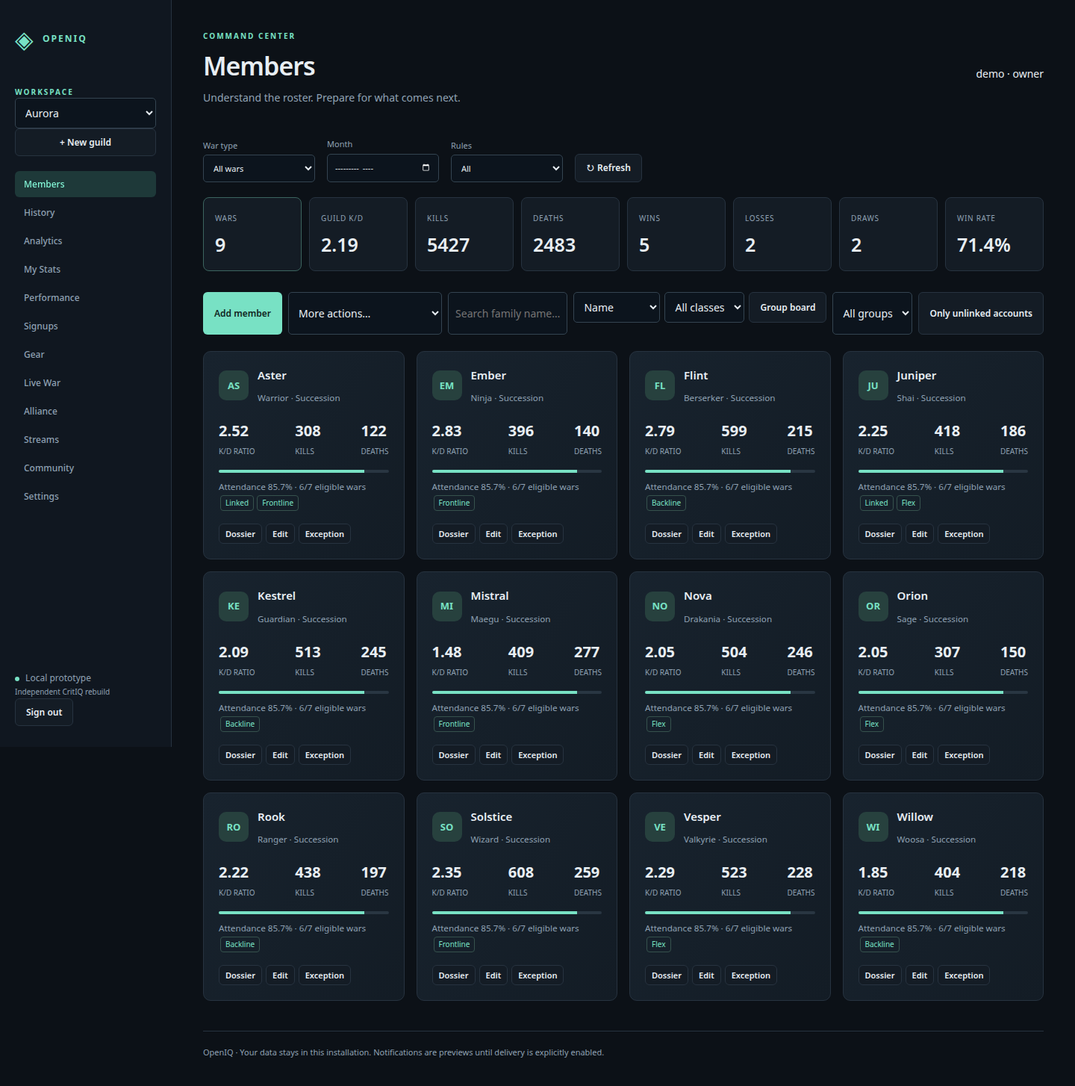
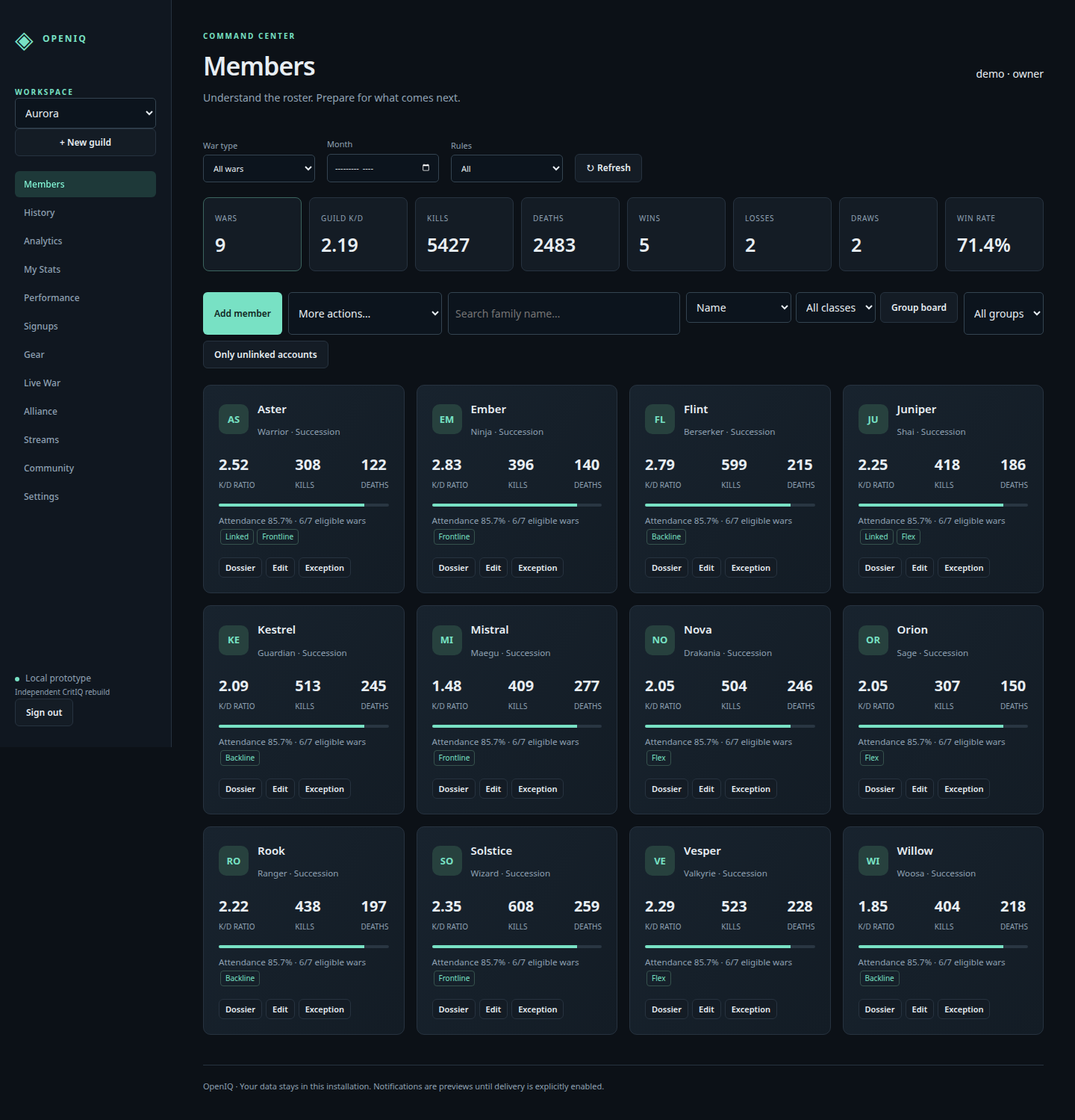
Add interactive analytics and inline war-detail editing

diff --git a/static/app.js b/static/app.js
@@ -4,20 +4,20 @@ let state,tab='Members',memberView='grid',search='',sort='name',classFilter='',g
 const tabs=['Members','History','Analytics','My Stats','Performance','Signups','Gear','Live War','Alliance','Streams','Community','Settings'];
 const subtitles={'History':'Every battle, recorded and understood.','Analytics':'Find the patterns behind your performance.','My Stats':'Your personal war dossier.','Performance':'Private coaching and attendance follow-up.','Signups':'Build balanced teams. Make every slot count.','Gear':'Track progression across your roster.','Live War':'Follow the fight. Review every moment.','Alliance':'Independent guilds. A shared view.','Streams':'Your guild and the wider BDO community.','Community':'Applications, support and guild conversations.','Settings':'Control access, schedules and integrations.'};
 const records=k=>state.records[k]||[], name=id=>records('member').find(m=>m.id===id)?.name||id, ratio=x=>x===null?'∞':Number(x||0).toFixed(2), csrf=()=>document.cookie.split('; ').find(s=>s.startsWith('csrftoken='))?.split('=')[1];
-const button=(label,fn,cls='ghost')=>{const b=document.createElement('button');b.className=cls;b.textContent=label;b.onclick=fn;return b;};
+const button=(label,fn,cls='ghost')=>{const b=document.createElement('button');b.type='button';b.className=cls;b.textContent=label;b.onclick=fn;return b;};
 function toast(text){$('#toast').textContent=text;$('#toast').hidden=false;clearTimeout(timer);timer=setTimeout(()=>$('#toast').hidden=true,6000);}
 async function call(module,action,payload){const response=await fetch(`/api/${$('#guild').value}/${module}/${action}/`,{method:'POST',headers:{'Content-Type':'application/json','X-CSRFToken':csrf()},body:JSON.stringify(payload)});const data=await response.json();if(!response.ok)throw Error(data.error||'Request failed');if(data.result?.deleted_guild){location.reload();return data.result;}await load();return data.result;}
 async function load(){if(!$('#guild').value){$('#panel').innerHTML='<div class="empty">No guild access. Run the demo setup command or ask an owner to add your account.</div>';return;}try{const query=new URLSearchParams({type:$('#war-type').value,month:$('#month').value,capped:$('#capped').value});const r=await fetch(`/api/${$('#guild').value}/state/?${query}`);if(!r.ok)throw Error('Unable to load guild');state=await r.json();$('#error').hidden=true;render();}catch(e){$('#error').textContent=e.message;$('#error').hidden=false;}}
 function render(){const visible=tabs.filter(t=>!(state.role==='member'&&['Performance','Settings'].includes(t)));if(!visible.includes(tab))tab='Members';$('#nav').replaceChildren(...visible.map(t=>button(t,()=>{tab=t;render();},t===tab?'active':'')));$('#title').textContent=tab;$('#subtitle').textContent=subtitles[tab]||'Understand the roster. Prepare for what comes next.';$('#identity').textContent=state.user.name+' · '+state.role;const t=state.analytics.totals;$('#stats').innerHTML=[['Wars',t.wars],['Guild K/D',ratio(t.kdr)],['Kills',t.kills],['Deaths',t.deaths],['Wins',t.wins],['Losses',t.losses],['Draws',t.draws],['Win rate',t.win_rate+'%']].map(([k,v])=>`<article><small>${k}</small><strong>${esc(v)}</strong></article>`).join('');$('#toolbar').replaceChildren();const modules={Members:['roster'],History:['wars'],Analytics:[], 'My Stats':['roster'],Performance:['coaching'],Signups:['events'],Gear:['gear'],'Live War':['live','intelligence'],Alliance:['alliances'],Streams:['integrations'],Community:['community','operations','ai'],Settings:['admin','integrations','operations']};let actions=state.actions.filter(a=>(modules[tab]||[]).includes(a.module));if(tab==='My Stats')actions=actions.filter(a=>a.action==='class');if(tab==='Streams')actions=actions.filter(a=>a.action.startsWith('twitch')||a.action.startsWith('streams'));if(actions.length){$('#toolbar').append(button(actions[0].label,()=>openAction(actions[0]),''));const select=document.createElement('select');select.className='actions-menu';select.innerHTML='<option value="">More actions…</option>'+actions.slice(1).map((a,i)=>`<option value="${i+1}">${esc(a.label)}</option>`).join('');select.onchange=()=>{if(select.value)openAction(actions[Number(select.value)]);select.value='';};$('#toolbar').append(select);}({Members:members,History:history,Analytics:analytics,'My Stats':myStats,Performance:performance,Signups:events,Gear:gear,'Live War':live,Alliance:alliance,Streams:streams,Community:community,Settings:settings}[tab])();enhanceTab();}
 function table(headers,rows){return `<div class="table-wrap"><table><thead><tr>${headers.map(h=>`<th>${esc(h)}</th>`).join('')}</tr></thead><tbody>${rows.join('')}</tbody></table></div>`;}
 const empty=message=>`<div class="empty">${esc(message)}</div>`;
-function members(){const stats=Object.fromEntries(state.analytics.members.map(m=>[m.id,m]));let list=records('member').filter(m=>m.active&&[m.name,m.character,...(m.aliases||[])].join(' ').toLowerCase().includes(search.toLowerCase())&&(!classFilter||m.class===classFilter)&&(!groupFilter||m.group===groupFilter)&&(!unlinkedOnly||!m.user_id));list.sort((a,b)=>sort==='name'?a.name.localeCompare(b.name):(stats[b.id]?.[sort]||0)-(stats[a.id]?.[sort]||0));const input=document.createElement('input');input.className='search';input.placeholder='Search family name…';input.value=search;input.oninput=()=>{search=input.value;members();};$('#toolbar .search')?.remove();$('#toolbar').append(input);if(!$('#member-tools')){const tools=document.createElement('div');tools.id='member-tools';tools.className='pill-row';tools.innerHTML=`<select id="sort"><option value="name">Name</option><option value="kills">Kills</option><option value="deaths">Deaths</option><option value="kdr">K/D</option><option value="attendance">Attendance</option></select><select id="class-filter"><option value="">All classes</option>${[...new Set(records('member').map(m=>m.class))].map(c=>`<option>${esc(c)}</option>`).join('')}</select>`;tools.append(button(memberView==='grid'?'Group board':'Card view',()=>{memberView=memberView==='grid'?'board':'grid';render();}));$('#toolbar').append(tools);$('#sort').value=sort;$('#sort').onchange=()=>{sort=$('#sort').value;members();};$('#class-filter').value=classFilter;$('#class-filter').onchange=()=>{classFilter=$('#class-filter').value;members();};}
+function members(){const stats=Object.fromEntries(state.analytics.members.map(m=>[m.id,m]));let list=records('member').filter(m=>m.active&&[m.name,m.character,...(m.aliases||[])].join(' ').toLowerCase().includes(search.toLowerCase())&&(!classFilter||m.class===classFilter)&&(!groupFilter||m.group===groupFilter)&&(!unlinkedOnly||!m.user_id));const vacation=m=>(m.vacations||[]).some(v=>v.start<=new Date().toISOString().slice(0,10)&&v.end>=new Date().toISOString().slice(0,10));list.sort((a,b)=>sort==='name'?a.name.localeCompare(b.name):sort==='last_war'?(stats[b.id]?.calendar.filter(w=>w.present).at(-1)?.date||'').localeCompare(stats[a.id]?.calendar.filter(w=>w.present).at(-1)?.date||''):sort==='vacation'?Number(vacation(b))-Number(vacation(a)):(stats[b.id]?.[sort]||0)-(stats[a.id]?.[sort]||0));const input=document.createElement('input');input.className='search';input.placeholder='Search family name…';input.value=search;input.oninput=()=>{search=input.value;members();};$('#toolbar .search')?.remove();$('#toolbar').append(input);if(!$('#member-tools')){const tools=document.createElement('div');tools.id='member-tools';tools.className='pill-row';tools.innerHTML=`<select id="sort"><option value="name">Name</option><option value="kills">Kills</option><option value="deaths">Deaths</option><option value="kdr">K/D</option><option value="attendance">Attendance</option><option value="last_war">Last war date</option><option value="vacation">Vacation status</option></select><select id="class-filter"><option value="">All classes</option>${[...new Set(records('member').map(m=>m.class))].map(c=>`<option>${esc(c)}</option>`).join('')}</select>`;tools.append(button(memberView==='grid'?'Group board':'Card view',()=>{memberView=memberView==='grid'?'board':'grid';render();}));$('#toolbar').append(tools);$('#sort').value=sort;$('#sort').onchange=()=>{sort=$('#sort').value;members();};$('#class-filter').value=classFilter;$('#class-filter').onchange=()=>{classFilter=$('#class-filter').value;members();};}
 if(memberView==='board'){const groups=[...new Set(['Unassigned',...records('group').map(g=>g.name),...list.map(m=>m.group)])];$('#panel').innerHTML=`<div class="board">${groups.map(g=>`<div class="column" data-group="${esc(g)}"><h3>${esc(g)}</h3>${list.filter(m=>m.group===g).map(m=>`<div class="tile" draggable="true" data-member="${m.id}">${esc(m.name)} <small>${esc(m.class)}</small></div>`).join('')}</div>`).join('')}</div>`;document.querySelectorAll('[draggable]').forEach(e=>e.ondragstart=ev=>ev.dataTransfer.setData('text/plain',e.dataset.member));document.querySelectorAll('[data-group]').forEach(e=>{e.ondragover=ev=>ev.preventDefault();e.ondrop=async ev=>{ev.preventDefault();try{await call('roster','save',{id:ev.dataTransfer.getData('text/plain'),group:e.dataset.group});}catch(e){toast(e.message);}};});return;}
 $('#panel').innerHTML=list.length?`<div class="grid">${list.map(m=>{const s=stats[m.id]||{};return `<article class="card"><div class="card-head"><div class="avatar">${esc(m.name.slice(0,2).toUpperCase())}</div><div><h3>${esc(m.name)}</h3><small>${esc(m.class)} · ${esc(m.spec)}</small></div></div><div class="numbers"><div><strong>${ratio(s.kdr)}</strong><small>K/D RATIO</small></div><div><strong>${s.kills||0}</strong><small>KILLS</small></div><div><strong>${s.deaths||0}</strong><small>DEATHS</small></div></div><div class="progress"><span style="width:${s.attendance||0}%"></span></div><small>Attendance ${s.attendance===null?'—':s.attendance+'%'} · ${s.present||0}/${s.eligible||0} eligible wars</small><div>${m.exception?'<span class="badge warn">Exception</span>':''}${m.user_id?'<span class="badge">Linked</span>':''}<span class="badge">${esc(m.group)}</span>${m.pity_points?`<span class="badge">${Math.floor(m.pity_points/3)} pity tokens · ${m.pity_points%3}/3 points</span>`:''}</div><div class="card-actions" data-member-actions="${m.id}"></div></article>`;}).join('')}</div>`:empty('No members match these filters.');document.querySelectorAll('[data-member-actions]').forEach(el=>{const id=el.dataset.memberActions;el.append(button('Dossier',()=>showDossier(id)));if(state.role!=='member'){el.append(button('Edit',()=>openAction(state.actions.find(a=>a.module==='roster'&&a.action==='save'),records('member').find(m=>m.id===id))));el.append(button('Exception',async()=>{try{const m=records('member').find(x=>x.id===id);await call('roster','save',{id,exception:!m.exception});}catch(e){toast(e.message);}}));}});if(search){input.focus({preventScroll:true});input.setSelectionRange(search.length,search.length);}}
 function showDossier(id){const m=records('member').find(x=>x.id===id),s=state.analytics.members.find(x=>x.id===id);showContent(m.name,`<p>${esc(m.class)} · ${esc(m.spec)}</p>${chart(s.timeline)}<h3>Attendance</h3>${heatmap(s.calendar)}<h3>Private notes</h3>${(m.notes||[]).map(n=>`<p>${esc(n.text)} <small>${esc(n.by)}</small></p>`).join('')||'<p>No notes.</p>'}`);}
 function heatmap(items){return `<div class="heatmap">${items.map(d=>`<i class="${d.present?'present':''}" title="${esc(d.date)}: ${d.present?'Present':'Absent'}"></i>`).join('')}</div>`;}
 function chart(items){if(!items.length)return empty('No recorded wars yet.');const max=Math.max(1,...items.map(x=>x.kills));const points=items.map((x,i)=>`${30+i*520/Math.max(items.length-1,1)},${150-x.kills/max*120}`).join(' ');return `<svg class="chart" viewBox="0 0 580 180" role="img" aria-label="Kills across recorded wars"><line x1="30" y1="150" x2="560" y2="150" stroke="#344451"/><polyline points="${points}" fill="none" stroke="#78e1c4" stroke-width="3"/>${items.map((x,i)=>`<circle cx="${30+i*520/Math.max(items.length-1,1)}" cy="${150-x.kills/max*120}" r="4" fill="#78e1c4"><title>${esc(x.date||x.at)}: ${x.kills} kills, ${x.deaths} deaths</title></circle>`).join('')}<text x="30" y="174">${esc(items[0].date||items[0].at)}</text></svg>`;}
-function history(){const wars=records('war').slice().sort((a,b)=>b.date.localeCompare(a.date));$('#panel').innerHTML=table(['Date','Type','Result','Kills','Deaths','Players','Actions'],wars.map(w=>`<tr><td>${esc(w.date)}</td><td>${esc(w.type)} ${w.capped?'· capped':''}</td><td><span class="badge">${w.result}</span></td><td>${w.participants.reduce((s,p)=>s+p.kills,0)}</td><td>${w.participants.reduce((s,p)=>s+p.deaths,0)}</td><td>${w.participants.length}</td><td data-war="${w.id}"></td></tr>`));document.querySelectorAll('[data-war]').forEach(el=>{const w=wars.find(x=>x.id===el.dataset.war);el.append(button('Details',()=>showContent(w.date+' · '+w.type,table(['Member','Class','Kills','Deaths'],w.participants.map(p=>`<tr><td>${esc(name(p.member))}</td><td>${esc(p.class)}</td><td>${p.kills}</td><td>${p.deaths}</td></tr>`)))));if(state.role!=='member'){el.append(button('Edit',()=>openAction(state.actions.find(a=>a.module==='wars'&&a.action==='save'),w)));el.append(button(w.excluded?'Include K/D':'Exclude K/D',()=>safeCall('wars','save',{id:w.id,excluded:!w.excluded})));el.append(button(w.alliance_included?'Unshare':'Share with alliance',()=>safeCall('wars','save',{id:w.id,alliance_included:!w.alliance_included})));}});if(state.role!=='member'){$('#toolbar').append(button('Read screenshots',()=>ocrDialog('scores')));for(const draft of records('import').filter(i=>i.status==='review'))$('#toolbar').append(button('Finalize score review',()=>reviewDraft(draft)));}}
+function history(){const wars=records('war').slice().sort((a,b)=>b.date.localeCompare(a.date));$('#panel').innerHTML=table(['Date','Type','Result','Kills','Deaths','Players','Actions'],wars.map(w=>`<tr><td>${esc(w.date)}</td><td>${esc(w.type)} ${w.capped?'· capped':''}</td><td><span class="badge">${w.result}</span></td><td>${w.participants.reduce((s,p)=>s+p.kills,0)}</td><td>${w.participants.reduce((s,p)=>s+p.deaths,0)}</td><td>${w.participants.length}</td><td data-war="${w.id}"></td></tr>`));document.querySelectorAll('[data-war]').forEach(el=>{const w=wars.find(x=>x.id===el.dataset.war);el.append(button('Details',()=>showWarDetails(w)));if(state.role!=='member'){el.append(button('Edit',()=>openAction(state.actions.find(a=>a.module==='wars'&&a.action==='save'),w)));el.append(button(w.excluded?'Include K/D':'Exclude K/D',()=>safeCall('wars','save',{id:w.id,excluded:!w.excluded})));el.append(button(w.alliance_included?'Unshare':'Share with alliance',()=>safeCall('wars','save',{id:w.id,alliance_included:!w.alliance_included})));}});if(state.role!=='member'){$('#toolbar').append(button('Read screenshots',()=>ocrDialog('scores')));for(const draft of records('import').filter(i=>i.status==='review'))$('#toolbar').append(button('Finalize score review',()=>reviewDraft(draft)));}}
 function analytics(){const a=state.analytics;a.awards=state.intelligence.awards;$('#panel').innerHTML=`<div class="split"><article class="card"><h3>Kills over time</h3>${chart(a.timeline)}</article><article class="card"><h3>Class composition</h3>${Object.entries(a.composition).map(([c,n])=>`<div class="bar"><label>${esc(c)}</label><span style="width:${n/Math.max(...Object.values(a.composition),1)*60}%"></span><small>${n}</small></div>`).join('')}</article></div><div class="grid section">${Object.entries(a.awards).map(([award,n])=>`<article class="card"><small>${esc(award)}</small><h2>${esc(n)}</h2></article>`).join('')}</div><h2>Player comparison</h2>${table(['Member','Kills','Deaths','K/D','Attendance','Recent change'],a.members.map(m=>`<tr><td>${esc(m.name)}</td><td>${m.kills}</td><td>${m.deaths}</td><td>${ratio(m.kdr)}</td><td>${m.attendance??'—'}%</td><td>${m.improvement.toFixed(2)}</td></tr>`))}<h2>Attendance calendar</h2>${a.members.map(m=>`<div class="bar"><label>${esc(m.name)}</label>${heatmap(m.calendar)}</div>`).join('')}<h2>Roster retention</h2>${table(['Recorded','Active members'],records('retention').map(r=>`<tr><td>${esc(r.at)}</td><td>${r.members}</td></tr>`))}`;}
 function myStats(){const m=records('member').find(m=>String(m.user_id)===String(state.user.id));if(!m){$('#panel').innerHTML=empty('Ask an officer to link your account to your BDO family name.');return;}const s=state.analytics.members.find(s=>s.id===m.id);$('#panel').innerHTML=`<article class="card"><h2>${esc(m.name)}</h2><p>${esc(m.class)} · ${esc(m.spec)} · ${ratio(s.kdr)} K/D</p>${chart(s.timeline)}${heatmap(s.calendar)}<h3>Recent wars</h3>${table(['Date','Kills','Deaths','K/D'],s.timeline.slice(-10).reverse().map(w=>`<tr><td>${w.date}</td><td>${w.kills}</td><td>${w.deaths}</td><td>${ratio(w.kdr)}</td></tr>`))}</article>`;}
 function performance(){$('#panel').innerHTML=`<div class="grid">${state.flags.map(f=>`<article class="card"><h3>${esc(f.name)}</h3><p>${f.reasons.map(esc).join(' · ')}</p><strong>${ratio(f.kdr)} K/D</strong> · ${f.attendance}% attendance</article>`).join('')||empty('No members currently exceed the configured thresholds.')}</div><h2>Mentoring assignments</h2>${table(['Member','Lead','Status','Outcome'],records('assignment').map(a=>`<tr><td>${esc(name(a.member))}</td><td>${esc(records('lead').find(l=>l.id===a.lead)?.name)}</td><td>${esc(a.status)}</td><td>${esc(a.outcome||a.notes)}</td></tr>`))}`;}
@@ -52,6 +52,7 @@ function enhanceTab(){
  if(tab==='Alliance'){for(const a of records('alliance').filter(a=>a.status==='active')){const section=document.createElement('section');section.innerHTML='<h2>Shared events</h2>'+a.events.map(e=>`<p><a href="/events/shared/${e.share_token}/">${esc(e.guild)} · ${esc(e.title)}</a></p>`).join('')+'<h2>Allied roster</h2>'+table(['Guild','Member','Class'],a.roster.map(m=>`<tr><td>${esc(m.guild)}</td><td>${esc(m.name)}</td><td>${esc(m.class)}</td></tr>`))+'<h2>Unified shared history</h2>'+table(['Guild','Date','Type','Result'],a.history.map(w=>`<tr><td>${esc(w.guild)}</td><td>${w.date}</td><td>${w.type}</td><td>${w.result}</td></tr>`));$('#panel').append(section);}}
  if(tab==='Gear'){const section=document.createElement('section');section.innerHTML='<h2>Guild gear rankings</h2>'+table(['Guild','Average score','Members sampled','Source'],state.rankings.map(g=>`<tr><td>${esc(g.name)}</td><td>${g.average_score}</td><td>${g.members}</td><td>${esc(g.source)}</td></tr>`));$('#panel').append(section);}
  if(tab==='Analytics'){
+  renderInsights();
   const section=document.createElement('section');section.className='section';section.innerHTML='<h2>Compare players</h2><p>Select two to four members. Each axis is normalized to the selected group.</p><select id="compare-players" multiple aria-label="Players to compare">'+state.analytics.members.map((m,i)=>`<option value="${m.id}" ${i<2?'selected':''}>${esc(m.name)}</option>`).join('')+'</select><div id="radar"></div><h2>Class performance</h2>'+table(['Class','Kills','Deaths','K/D'],Object.entries(state.analytics.classes).map(([c,s])=>`<tr><td>${esc(c)}</td><td>${s.kills}</td><td>${s.deaths}</td><td>${ratio(s.deaths?s.kills/s.deaths:null)}</td></tr>`));$('#panel').append(section);
   const draw=()=>{const chosen=[...$('#compare-players').selectedOptions].slice(0,4).map(o=>state.analytics.members.find(m=>m.id===o.value));const metrics=['kills','deaths','attendance','improvement'];const colors=['#78e1c4','#e2bd78','#9ba9ef','#f2878b'];const max=metrics.map(k=>Math.max(1,...chosen.map(m=>Math.abs(m[k]||0))));let html='<svg viewBox="0 0 480 270" class="chart" role="img" aria-label="Player comparison radar">';metrics.forEach((k,i)=>{const angle=i*Math.PI/2-Math.PI/2;html+=`<line x1="240" y1="130" x2="${240+100*Math.cos(angle)}" y2="${130+100*Math.sin(angle)}" stroke="#344451"/><text text-anchor="middle" x="${240+120*Math.cos(angle)}" y="${135+120*Math.sin(angle)}">${k}</text>`;});chosen.forEach((m,j)=>{const points=metrics.map((k,i)=>{const angle=i*Math.PI/2-Math.PI/2;const r=Math.abs(m[k]||0)/max[i]*100;return `${240+r*Math.cos(angle)},${130+r*Math.sin(angle)}`;}).join(' ');html+=`<polygon points="${points}" fill="${colors[j]}22" stroke="${colors[j]}" stroke-width="2"><title>${esc(m.name)}</title></polygon>`;});html+='</svg><div class="pill-row">'+chosen.map((m,i)=>`<span class="badge" style="color:${colors[i]}">${esc(m.name)}</span>`).join('')+'</div>';$('#radar').innerHTML=html;};$('#compare-players').onchange=draw;draw();
  }

diff --git a/static/insights.js b/static/insights.js
@@ -1,0 +1,46 @@
+/* Independent visualizations and the editable war-detail workspace. */
+function kdrTimeline(items, label='K/D across recorded wars') {
+ if(!items.length)return empty('No recorded wars yet.');
+ const finite=items.map(item=>item.deaths?item.kills/item.deaths:0),maximum=Math.max(1,...finite);
+ const value=item=>item.deaths?item.kills/item.deaths:item.kills?maximum:0;
+ const point=(item,index)=>[30+index*520/Math.max(items.length-1,1),150-value(item)/maximum*120];
+ return `<svg class="chart" viewBox="0 0 580 180" role="img" aria-label="${esc(label)}"><polyline points="${items.map((item,index)=>point(item,index).join(',')).join(' ')}" fill="none" stroke="#78e1c4" stroke-width="3"/>${items.map((item,index)=>{const [x,y]=point(item,index);return `<circle cx="${x}" cy="${y}" r="5" fill="#e2bd78"><title>${esc(item.date||item.at)}: ${item.deaths?ratio(item.kills/item.deaths):item.kills?'∞ (zero deaths)':'0.00'} K/D</title></circle>`;}).join('')}<text x="30" y="174">Zero-death wins appear at the chart ceiling; hover for exact values.</text></svg>`;
+}
+function classBubbles() {
+ const classes=Object.entries(state.analytics.composition),nodes=classes.map(([name,count],index)=>({name,count,x:90+(index%5)*100,y:70+Math.floor(index/5)*100,r:22+Math.sqrt(count)*7}));
+ const height=Math.max(220,Math.ceil(nodes.length/5)*110);
+ return {nodes,height,html:`<svg id="class-bubbles" class="chart" viewBox="0 0 580 ${height}" role="img" aria-label="Interactive class composition bubbles">${nodes.map((node,index)=>{const specs={};records('member').filter(m=>m.active&&m.class===node.name).forEach(m=>specs[m.spec]=(specs[m.spec]||0)+1);return `<g data-bubble="${index}" transform="translate(${node.x} ${node.y})"><circle r="${node.r}" fill="#244b48" stroke="#78e1c4"/><text text-anchor="middle" dy="-3">${esc(node.name)}</text><text text-anchor="middle" dy="15">${node.count}</text><title>${Object.entries(specs).map(([spec,count])=>esc(spec)+': '+count).join(' · ')}</title></g>`;}).join('')}</svg>`};
+}
+function animateBubbles(nodes,height) {
+ const svg=$('#class-bubbles');if(!svg)return;let frame=0,dragging=null;
+ const position=event=>{const point=svg.createSVGPoint();point.x=event.clientX;point.y=event.clientY;return point.matrixTransform(svg.getScreenCTM().inverse());};
+ svg.querySelectorAll('[data-bubble]').forEach(group=>{group.style.cursor='grab';group.onpointerdown=event=>{dragging=Number(group.dataset.bubble);svg.setPointerCapture(event.pointerId);};});
+ svg.onpointermove=event=>{if(dragging===null)return;const p=position(event);nodes[dragging].x=p.x;nodes[dragging].y=p.y;frame=0;};
+ svg.onpointerup=()=>{dragging=null;};
+ function tick(){if(!svg.isConnected)return;
+  for(let i=0;i<nodes.length;i++){const a=nodes[i];for(let j=i+1;j<nodes.length;j++){const b=nodes[j],dx=b.x-a.x,dy=b.y-a.y,distance=Math.hypot(dx,dy)||1,overlap=a.r+b.r+8-distance;if(overlap>0){const x=dx/distance*overlap*.3,y=dy/distance*overlap*.3;if(i!==dragging){a.x-=x;a.y-=y;}if(j!==dragging){b.x+=x;b.y+=y;}}}a.x=Math.max(a.r,Math.min(580-a.r,a.x));a.y=Math.max(a.r,Math.min(height-a.r,a.y));svg.querySelector(`[data-bubble="${i}"]`).setAttribute('transform',`translate(${a.x} ${a.y})`);}
+  frame++;if(frame<90||dragging!==null)requestAnimationFrame(tick);else svg.onpointerdown=()=>{frame=0;requestAnimationFrame(tick);};
+ }requestAnimationFrame(tick);
+}
+function rosterPriority() {
+ const players=state.analytics.members.filter(m=>m.timeline.length).slice().sort((a,b)=>(b.kdr??Infinity)-(a.kdr??Infinity));
+ const dates=[...new Set(players.flatMap(m=>m.timeline.map(w=>w.date)))].sort(),ceiling=Math.max(1,...players.flatMap(m=>m.timeline.map(w=>w.deaths?w.kills/w.deaths:0)));
+ return `<article class="card section"><h2>Roster K/D trends</h2><svg class="chart" viewBox="0 0 580 180" aria-label="Roster priority trends" role="img">${players.map((member,index)=>`<polyline data-priority-line="${member.id}" points="${member.timeline.map(w=>`${30+dates.indexOf(w.date)*520/Math.max(1,dates.length-1)},${150-(w.deaths?w.kills/w.deaths:w.kills?ceiling:0)/ceiling*120}`).join(' ')}" fill="none" stroke="hsl(${index*67%360} 65% 65%)" stroke-width="2"><title>${esc(member.name)}</title></polyline>`).join('')}</svg><div class="pill-row">${players.map((member,index)=>`<label><input type="checkbox" checked data-priority-toggle="${member.id}"> ${esc(member.name)} · ${ratio(member.kdr)}</label>`).join('')}</div></article>`;
+}
+function renderInsights() {
+ const section=document.createElement('section'),bubbles=classBubbles();section.innerHTML=`<div class="split section"><article class="card"><h2>Guild K/D timeline</h2>${kdrTimeline(state.analytics.timeline)}</article><article class="card"><h2>Class specializations</h2><p>Drag classes to rearrange; hover for specializations.</p>${bubbles.html}</article></div>${rosterPriority()}`;$('#panel').append(section);animateBubbles(bubbles.nodes,bubbles.height);
+ section.querySelectorAll('[data-priority-toggle]').forEach(input=>input.onchange=()=>section.querySelector(`[data-priority-line="${input.dataset.priorityToggle}"]`).style.display=input.checked?'':'none');
+}
+function showWarDetails(war,order='kills') {
+ const participants=war.participants.slice().sort((a,b)=>order==='name'?name(a.member).localeCompare(name(b.member)):order==='kdr'?(b.deaths?b.kills/b.deaths:b.kills?Infinity:0)-(a.deaths?a.kills/a.deaths:a.kills?Infinity:0):b[order]-a[order]);
+ const total=participants.reduce((sum,p)=>({kills:sum.kills+p.kills,deaths:sum.deaths+p.deaths}),{kills:0,deaths:0}),classes={};participants.forEach(p=>classes[p.class]=(classes[p.class]||0)+1);
+ const best=metric=>participants.slice().sort((a,b)=>metric(b)-metric(a))[0],awards=[['Most kills',best(p=>p.kills)],['Best K/D',best(p=>p.deaths?p.kills/p.deaths:p.kills?Infinity:0)],['Most deaths',best(p=>p.deaths)]];
+ const editable=state.role!=='member';
+ showContent(`${war.date} · ${war.type}`,`<p>${esc(war.result)} · ${war.capped?'Capped':'Uncapped'} · ${participants.length} players · ${total.kills} kills · ${total.deaths} deaths</p><div class="pill-row">${awards.map(([label,p])=>`<span class="badge">${label}: ${esc(p?name(p.member):'—')}</span>`).join('')}</div><p>${Object.entries(classes).sort((a,b)=>b[1]-a[1]).slice(0,5).map(([label,count])=>esc(label)+': '+count).join(' · ')}</p><label for="war-detail-sort">Sort players</label><select id="war-detail-sort">${['name','kills','deaths','kdr'].map(value=>`<option ${value===order?'selected':''}>${value}</option>`).join('')}</select>${table(['Member','Class','Kills','Deaths','K/D','Excluded','Actions'],participants.map(p=>`<tr data-detail-member="${p.member}"><td>${esc(name(p.member))}</td><td>${editable?`<input data-detail-class aria-label="${esc(name(p.member))} class" value="${esc(p.class)}">`:esc(p.class)}</td><td>${editable?`<input data-detail-kills aria-label="${esc(name(p.member))} kills" type="number" min="0" value="${p.kills}">`:p.kills}</td><td>${editable?`<input data-detail-deaths aria-label="${esc(name(p.member))} deaths" type="number" min="0" value="${p.deaths}">`:p.deaths}</td><td>${ratio(p.deaths?p.kills/p.deaths:p.kills?null:0)}</td><td><input data-detail-excluded type="checkbox" aria-label="Exclude ${esc(name(p.member))}" ${p.excluded?'checked':''} ${editable?'':'disabled'}></td><td data-detail-actions="${p.member}"></td></tr>`))}<p>${esc(war.note||'')}</p>`);
+ $('#war-detail-sort').onchange=event=>showWarDetails(war,event.target.value);
+ if(editable)document.querySelectorAll('[data-detail-actions]').forEach(cell=>{
+  const row=cell.closest('tr'),member=cell.dataset.detailActions;
+  async function update(remove){try{let updated=war.participants.map(p=>p.member===member?{...p,kills:Number(row.querySelector('[data-detail-kills]').value),deaths:Number(row.querySelector('[data-detail-deaths]').value),class:row.querySelector('[data-detail-class]').value,excluded:row.querySelector('[data-detail-excluded]').checked}:p);if(remove)updated=updated.filter(p=>p.member!==member);const result=await call('wars','save',{id:war.id,participants:updated});showWarDetails(result,order);}catch(error){$('#form-error').textContent=error.message;}}
+  cell.append(button('Save row',()=>update(false)),button('Remove',()=>update(true)));
+ });
+}

diff --git a/templates/dashboard.html b/templates/dashboard.html
@@ -1,1 +1,1 @@
-{% load static %}<!doctype html><html lang="en"><head><meta charset="utf-8"><meta name="viewport" content="width=device-width,initial-scale=1"><title>OpenIQ</title><link rel="stylesheet" href="{% static 'app.css' %}"></head><body><aside><a class="brand" href="/">◈ <span>OPENIQ</span></a><small class="eyebrow">WORKSPACE</small><select id="guild">{% for g in guilds %}<option value="{{g.pk}}">{{g.name}}</option>{% endfor %}</select><button class="ghost" id="new-guild" type="button">+ New guild</button><nav id="nav"></nav><div class="aside-bottom"><span class="status-dot"></span> Local prototype<br><small>Independent CritIQ rebuild</small><form action="/logout/" method="post">{% csrf_token %}<button class="ghost">Sign out</button></form></div></aside><main class="content"><header><div><span class="eyebrow" id="breadcrumb">COMMAND CENTER</span><h1 id="title">Members</h1><p id="subtitle">Understand the roster. Prepare for what comes next.</p></div><div id="identity"></div></header><div class="filters"><label>War type<select id="war-type"><option value="">All wars</option><option>Node</option><option>Siege</option></select></label><label>Month<input id="month" type="month"></label><label>Rules<select id="capped"><option value="">All</option><option value="true">Capped</option><option value="false">Uncapped</option></select></label><button id="refresh" class="ghost">↻ Refresh</button></div><section id="stats" class="stats"></section><section id="toolbar" class="toolbar"></section><div id="error" role="alert" hidden></div><section id="panel"></section><footer>OpenIQ · Your data stays in this installation. Notifications are previews until delivery is explicitly enabled.</footer></main><dialog id="dialog"><form id="action-form"><div class="dialog-head"><h2 id="dialog-title"></h2><button type="button" id="close" class="ghost" aria-label="Close">×</button></div><div id="fields"></div><p id="form-error" role="alert"></p><button id="submit">Save</button></form></dialog><div id="toast" role="status" hidden></div><script src="{% static 'app.js' %}" defer></script></body></html>
+{% load static %}<!doctype html><html lang="en"><head><meta charset="utf-8"><meta name="viewport" content="width=device-width,initial-scale=1"><title>OpenIQ</title><link rel="stylesheet" href="{% static 'app.css' %}"></head><body><aside><a class="brand" href="/">◈ <span>OPENIQ</span></a><small class="eyebrow">WORKSPACE</small><select id="guild">{% for g in guilds %}<option value="{{g.pk}}">{{g.name}}</option>{% endfor %}</select><button class="ghost" id="new-guild" type="button">+ New guild</button><nav id="nav"></nav><div class="aside-bottom"><span class="status-dot"></span> Local prototype<br><small>Independent CritIQ rebuild</small><form action="/logout/" method="post">{% csrf_token %}<button class="ghost">Sign out</button></form></div></aside><main class="content"><header><div><span class="eyebrow" id="breadcrumb">COMMAND CENTER</span><h1 id="title">Members</h1><p id="subtitle">Understand the roster. Prepare for what comes next.</p></div><div id="identity"></div></header><div class="filters"><label>War type<select id="war-type"><option value="">All wars</option><option>Node</option><option>Siege</option></select></label><label>Month<input id="month" type="month"></label><label>Rules<select id="capped"><option value="">All</option><option value="true">Capped</option><option value="false">Uncapped</option></select></label><button id="refresh" class="ghost">↻ Refresh</button></div><section id="stats" class="stats"></section><section id="toolbar" class="toolbar"></section><div id="error" role="alert" hidden></div><section id="panel"></section><footer>OpenIQ · Your data stays in this installation. Notifications are previews until delivery is explicitly enabled.</footer></main><dialog id="dialog"><form id="action-form"><div class="dialog-head"><h2 id="dialog-title"></h2><button type="button" id="close" class="ghost" aria-label="Close">×</button></div><div id="fields"></div><p id="form-error" role="alert"></p><button id="submit">Save</button></form></dialog><div id="toast" role="status" hidden></div><script src="{% static 'insights.js' %}" defer></script><script src="{% static 'app.js' %}" defer></script></body></html>

diff --git a/scripts/browser_smoke.py b/scripts/browser_smoke.py
@@ -36,6 +36,17 @@ with sync_playwright() as p:
         page.get_by_label('Kills',exact=True).fill('20');page.get_by_label('Deaths',exact=True).fill('4');page.get_by_label('War class',exact=True).fill('Warrior')
         page.get_by_role('button',name='Save',exact=True).click();page.wait_for_function('!document.querySelector("#dialog").open || document.querySelector("#form-error").textContent');assert not page.locator('#dialog').is_visible(), page.locator('#form-error').inner_text()
         assert page.locator('#panel td').filter(has_text='20').count()>0
+        page.get_by_role('button',name='Details',exact=True).click()
+        page.locator('[data-detail-kills]').fill('24');page.get_by_role('button',name='Save row',exact=True).click()
+        page.wait_for_function("state.records.war[0].participants[0].kills===24")
+        assert page.locator('[data-detail-kills]').input_value()=='24'
+        page.get_by_label('Sort players',exact=True).select_option('name')
+        page.get_by_role('button',name='Close',exact=True).click()
+        page.locator('nav').get_by_role('button',name='Analytics',exact=True).click()
+        assert page.get_by_role('img',name='K/D across recorded wars',exact=True).count()==1
+        assert page.locator('#class-bubbles [data-bubble]').count()>0
+        page.locator('[data-priority-toggle]').first.uncheck()
+        assert page.locator('[data-priority-line]').first.evaluate("node=>node.style.display")=='none'
         page.locator('nav').get_by_role('button',name='Signups',exact=True).click();page.get_by_role('button',name='Create event',exact=True).click();page.get_by_label('Title',exact=True).fill('UI test event');page.get_by_role('button',name='Save',exact=True).click();page.wait_for_function('!document.querySelector("#dialog").open || document.querySelector("#form-error").textContent');assert not page.locator('#dialog').is_visible(), page.locator('#form-error').inner_text()
         assert page.get_by_role('heading',name='UI test event',exact=True).count()==1
         page.locator('nav').get_by_role('button',name='Gear',exact=True).click();page.get_by_role('button',name='Update gear',exact=True).click()
@@ -59,7 +70,7 @@ with sync_playwright() as p:
         parsed=page.evaluate("async()=>await parseIkusaText('[23:59:58] Alpha has killed Enemy from Rival\\n[00:00:02] Alpha died to Enemy from Rival','2026-09-11','+12:00')")
         assert len(parsed)==2 and parsed[1]['player']=='Enemy'
         assert not errors,errors
-        print('Browser passed: OpenIQ branding, 12 tabs, mobile layout, member search/create, war entry, event creation, gear update, settings preservation, ticket/welcome/access role configuration, browser IKUSA parsing, no JavaScript errors.')
+        print('Browser passed: OpenIQ branding, 12 tabs, mobile layout, member search/create, war entry/inline edit, analytics overlays, event creation, gear update, settings preservation, ticket/welcome/access role configuration, browser IKUSA parsing, no JavaScript errors.')
     except Exception:
         print('FORM ERROR:',page.locator('#form-error').inner_text())
         print('INVALID:',page.evaluate('Array.from(document.querySelectorAll("#action-form :invalid")).map(e=>({tag:e.tagName,type:e.type,value:e.value,message:e.validationMessage}))'))

diff --git a/docs/FEATURES.md b/docs/FEATURES.md
@@ -5,10 +5,10 @@ This is an implementation audit, not a claim of CritIQ parity. The [research inv
 | Feature family | Working prototype | Remaining parity work |
 |---|---|---|
 | Setup / identity | Local guild onboarding, owner/admin/member accounts, guild picker, reviewed roster sync, Discord-family links; OAuth adapter, role refresh, one-use adoption key | Live Discord setup wizard; test regional BDO roster pages. Local recovery supports expiring, single-use adoption keys |
-| Roster | Add/edit/inactivate, search, class filter, stat sorting, draggable groups, class/spec and historical backfill, private notes, exceptions, dated vacations, merge | More filter/sort combinations and card animation; merges reconcile wars, gear, coaching and event signups |
+| Roster | Add/edit/inactivate, search, class filter, stat sorting, draggable groups, class/spec and historical backfill, private notes, exceptions, dated vacations, merge | Card animation and remaining filter combinations; last-war/vacation sorting and merges across wars, gear, coaching and event signups are implemented |
 | Score ingestion | CSV review, fuzzy suggestions, paired-image Tesseract OCR, alignment validation, manual corrections, atomic finalize, repeat-finalize prevention | Real BDO screenshot corpus, language/crop presets and extraction accuracy benchmarking |
-| War history | Create/edit/delete, dates/types/results/caps, participant add/remove via form, class snapshot, K/D exclusion and alliance sharing, notes, live link | Polished per-war awards sidebar; the participant editor includes class and exclusion controls |
-| Analytics | Aggregate K/D, eligible-war attendance, timeline, class composition/performance, normalized comparison radar, heatmap, retention, awards | Exact undocumented CritIQ award formulas, physics bubble animation, all chart drill-down interactions |
+| War history | Create/edit/delete, dates/types/results/caps, participant add/remove via form, class snapshot, K/D exclusion and alliance sharing, notes, live link | Exact original accolade formulas and visual styling; sortable detail tables, inline scores/classes/exclusions, row removal and top-class/award summaries are implemented |
+| Analytics | Aggregate K/D, eligible-war attendance, timeline, class composition/performance, normalized comparison radar, heatmap, retention, awards | Exact undocumented award formulas and remaining chart drill-down interactions; interactive class bubbles, specialization tooltips, K/D timelines and per-player overlays are implemented |
 | Personal statistics | Linked-member dossier, recent wars, trends, attendance, opponent matchup totals, trophy case | Exact original assessment and digest rules; local weekly roundup and trend assessment are implemented |
 | Coaching | Private flags, KDR war window, attendance/miss/no-show thresholds, grace/vacation exemptions, leads/capacity, assignments, resolution cooldown | Live notification role ping formatting; independent all/wars/days/previous-month windows and lead notification previews are implemented |
 | Signups | Create/edit, team capacities and per-team waitlists, drag/drop, withdrawals and promotion, lock/archive, presets, timezone-aware recurrence, event-card/missing-response previews; archival waitlist pity points | Live Discord button verification and exact original subteam layout. Native button payloads, grouped teams, custom card images/accent, automatic recurrence and protected ally links are implemented |
